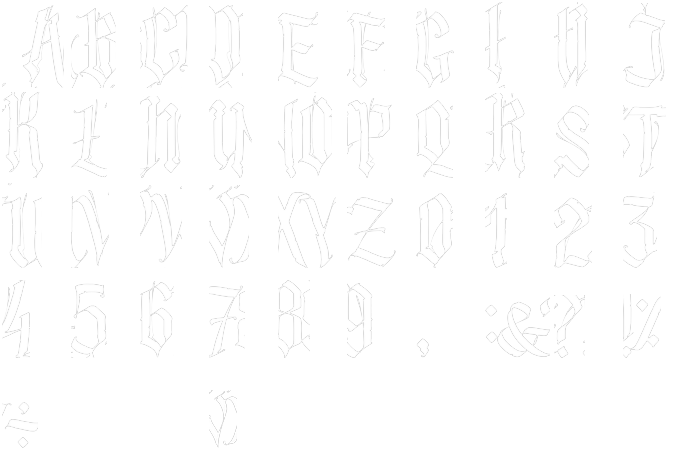
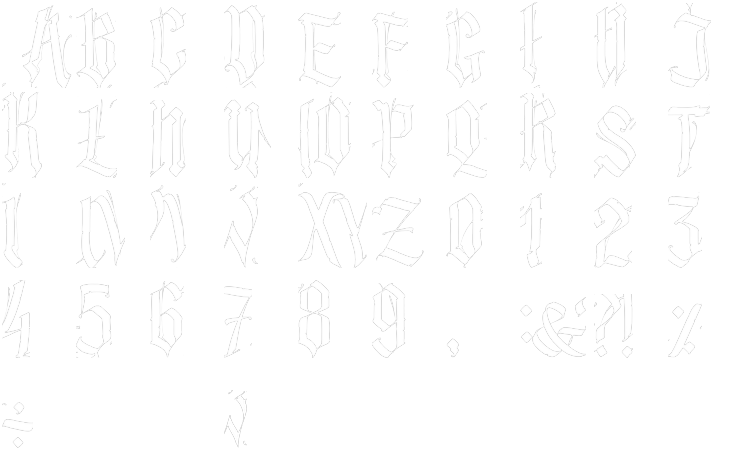
Fix incorrectly clipped characters in gothic bitmap font
Corrected character boundary split positions in extract_gothic_font.py
using per-column alpha density minimum analysis on the source image.

Critical fixes for characters that were badly clipped:
- U/V split: x=240→227 (old split was cutting through U at density=194)
- X/Y split: x=360→346 (old split cut through X/Y at density=117)
- W/X split: x=320→312 (old split at density=68)
- S/T split: x=157→164 (old split at density=89)
- 7/8 split: x=358→350 (old split was cutting through 7/8 at density=170)
- 8/9 split: x=390→382 (old split cut through 8/9 at density=168)
- ?/! split: x=268→277 (old split cut through ! at density=145)

Additional minor improvements:
- Row 1: A/B (155→163), B/C (200→203), C/D (248→239), D/E (282→280)
- Row 2: H/I (99→100), J/K (175→176), L/M (252→257), N/O (336→340), O/P (390→393)
- Row 3: Q/R (82→86), T/U (200→206), V/W (278→276)
- Row 4: 6/7 (322→322 unchanged), added 7/8 and 8/9 fixes
- Row 5: &/? (237→238), !/- (306→311)

Regenerated gothic_bitmap.png (740x450 RGBA) and gothic_bitmap.fnt
from the corrected splits.

diff --git a/experiments/extract_gothic_font.py b/experiments/extract_gothic_font.py
@@ -27,30 +27,38 @@ EXPERIMENT_DIR = SCRIPT_DIR
 
 ROWS = [
     # Row 1: A B C D E F G (y=130-213)
-    # Row boundaries from horizontal density valleys (density < 40)
-    # Column splits from per-column alpha density analysis + 4x zoom visual verification
+    # Corrected splits using per-column alpha density minimum analysis:
+    # A/B: x=163 (density=5.8), B/C: x=203 (3.5), C/D: x=239 (6.9, was 248@186),
+    # D/E: x=280 (5.3), E/F: x=323 (6.7), F/G: x=359 (15.6)
     (list("ABCDEFG"), 130, 213,
-     [93, 155, 200, 248, 282, 322, 360, 398]),
+     [93, 163, 203, 239, 280, 323, 359, 398]),
 
     # Row 2: H I J K L M N O P (y=210-296)
-    # Density dips at x: 99(2), 133(1), 175(3), 216(2), 252, 293, 336, 390
+    # Corrected splits: H/I: x=100 (4.0), I/J: x=133 (1.8), J/K: x=176 (4.6),
+    # K/L: x=216 (1.5), L/M: x=257 (11.1, was 252@25), M/N: x=293 (6.2),
+    # N/O: x=340 (3.2, was 336@6.3), O/P: x=393 (14.0, was 390@75.5)
     (list("HIJKLMNOP"), 210, 296,
-     [78, 99, 133, 175, 216, 252, 293, 336, 390, 435]),
+     [78, 100, 133, 176, 216, 257, 293, 340, 393, 435]),
 
     # Row 3: Q R S T U V W X Y Z (y=295-380)
-    # Density dips at x: 82, 122, 157, 200, 228(1), 275(6), 314, 348, 418
+    # Corrected splits: Q/R: x=86 (17.9), R/S: x=122 (10.9), S/T: x=164 (13.2, was 157@88.8),
+    # T/U: x=206 (8.2), U/V: x=227 (2.3, was 240@193.9 - CRITICAL FIX),
+    # V/W: x=276 (9.3), W/X: x=312 (6.8, was 320@68.1),
+    # X/Y: x=346 (9.9, was 360@116.9 - CRITICAL FIX), Y/Z: x=415 (10.8)
     (list("QRSTUVWXYZ"), 295, 380,
-     [45, 82, 122, 157, 200, 240, 278, 320, 360, 418, 467]),
+     [45, 86, 122, 164, 206, 227, 276, 312, 346, 415, 467]),
 
     # Row 4: 0 1 2 3 4 5 6 7 8 9 (y=380-458)
-    # Density dips at x: 130, 152, 190, 224, 252, 288, 322, 358, 390
+    # Corrected splits: 6/7: x=321 (20.6), 7/8: x=350 (29.4, was 358@170.1 - CRITICAL FIX),
+    # 8/9: x=382 (14.2, was 390@168.4 - CRITICAL FIX)
     (list("0123456789"), 380, 458,
-     [93, 130, 152, 190, 224, 252, 288, 322, 358, 390, 416]),
+     [93, 130, 152, 190, 224, 252, 288, 322, 350, 382, 416]),
 
     # Row 5: : & ? ! - (y=462-527)
-    # Clear gap at x=169-172 (between : and &)
+    # Corrected splits: &/?: x=238 (17.0), ?/!: x=277 (10.0, was 268@145.4 - CRITICAL FIX),
+    # !/- : x=311 (10.3, was 306@44.5)
     (list(":&?!-"), 462, 527,
-     [156, 170, 237, 268, 306, 342]),
+     [156, 170, 238, 277, 311, 342]),
 ]
 
 
